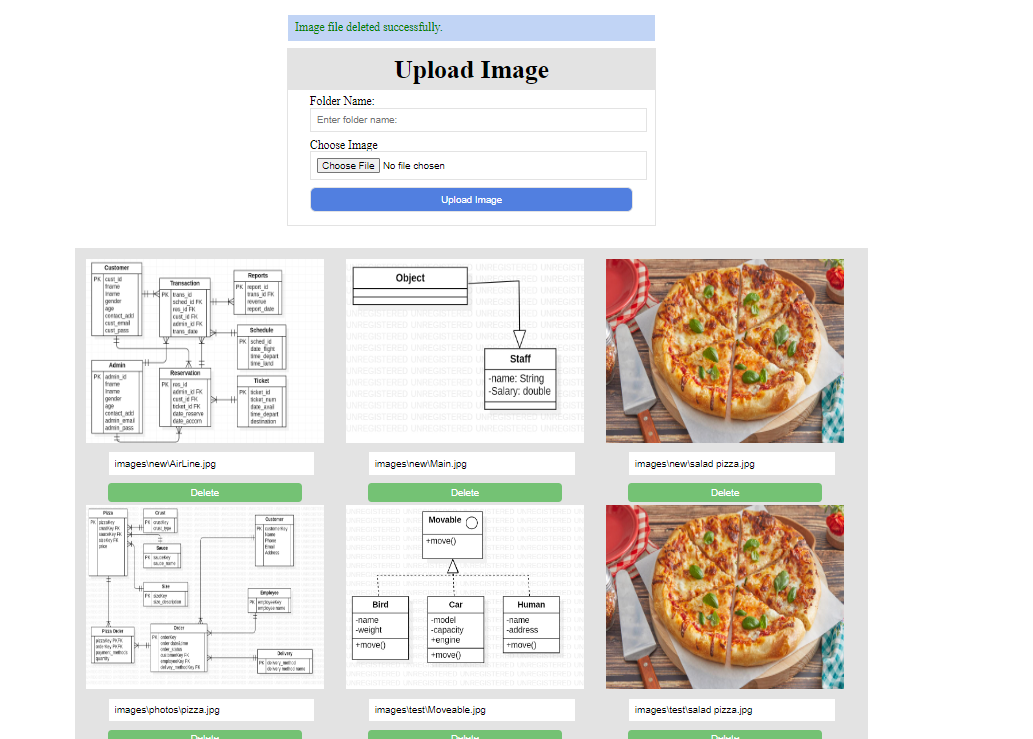
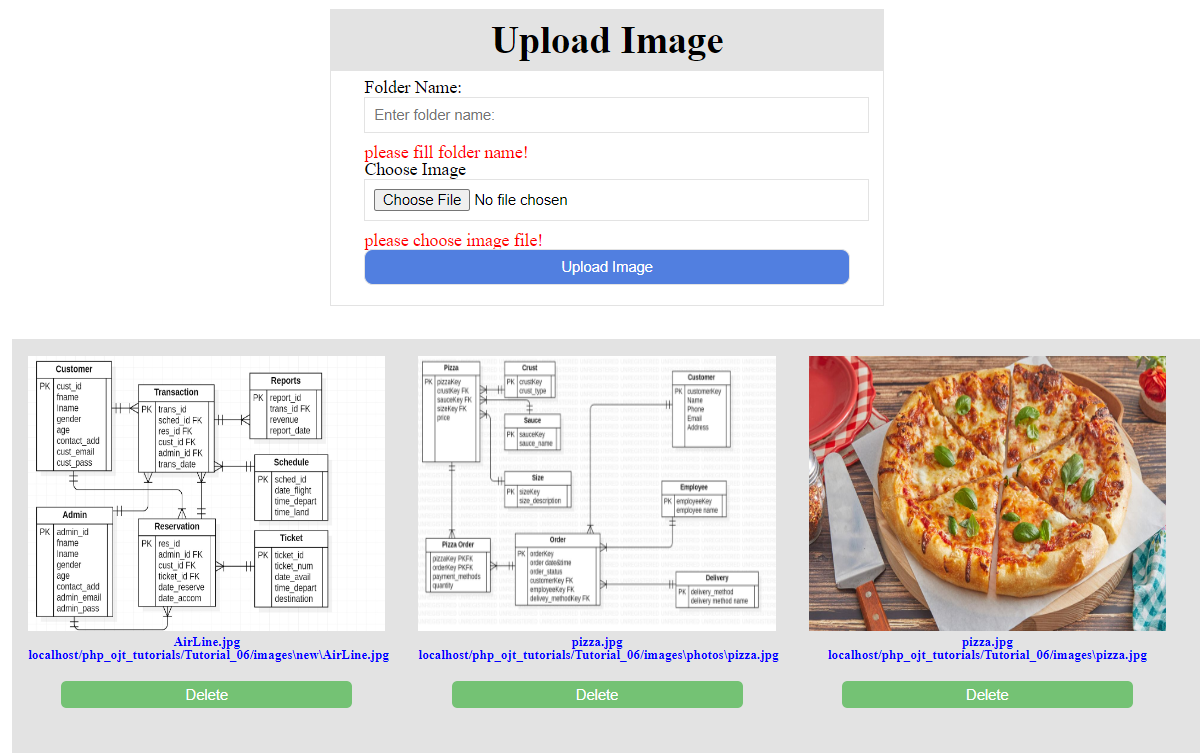
add_img_name&readme_tutorial-06_14_03_2024

diff --git a/Tutorial_06/css/style.css b/Tutorial_06/css/style.css
@@ -64,14 +64,18 @@ input[type='submit'] {
 .image {
   margin: 15px 15px 20px;
   width: 30%;
-  height: 300px;
+  height: 350px;
 }
 
 .image img {
   width: 100%;
   height: 250px;
 }
-
+h6 {
+  color:blue;
+  text-align: center;
+  font-size: 12px;
+}
 button:hover,
 input[type='submit']:hover {
   opacity: 0.7;
@@ -85,4 +89,5 @@ input[type='submit']:hover {
   padding: 5px;
   border-radius: 5px;
   border: none;
+  margin-top: 10px;
 }

diff --git a/Tutorial_06/index.php b/Tutorial_06/index.php
@@ -7,15 +7,11 @@
     <link rel="stylesheet" href="css/reset.css">
     <link rel="stylesheet" href="css/style.css">
 </head>
-
 <body>
     <?php
     if (isset($_GET['error'])) {
         $error = $_GET['error'];
         switch ($error) {
-            case 'missing_inputs':
-                echo "<div class='alert red'>You need to fill folder name and choose image.</div>";
-                break;
             case 'file_too_large':
                 echo "<div class='alert red'>File is too large.File size must be less than or equal 2MB.</div>";
                 break;
@@ -56,14 +52,14 @@
             <label for="folder">Folder Name:</label>
             <input type="text" name="folder" id="folder" placeholder="Enter folder name:">
             <p class="red">
-                <?php if (isset($_GET['empty-folder'])) {
+                <?php if (isset($_GET['empty-folder'])||isset($_GET['empty'])) {
                     echo "please fill folder name!";
                 } ?>
             </p>
             <label for="image">Choose Image</label>
             <input type="file" name="image" id="image">
             <p class="red">
-                <?php if (isset($_GET['empty-img'])) {
+                <?php if (isset($_GET['empty-img'])||isset($_GET['empty'])) {
                     echo "please choose image file!";
                 } ?>
             </p>
@@ -71,10 +67,10 @@
         </form>
     </div>
 
-    <div class="img-con"> <!--to show images-->
+    <div class="img-con">
         <?php
         $directory = 'images/';
-
+        $baseUrl = "localhost/php_ojt_tutorials/Tutorial_06/";
         // Create RecursiveDirectoryIterator
         $iterator = new RecursiveIteratorIterator(new RecursiveDirectoryIterator($directory));
 
@@ -82,8 +78,12 @@
             if ($file->isFile() && in_array(strtolower($file->getExtension()), ['jpg', 'jpeg', 'png'])) {
                 echo '<div class="image">';
                 echo '<img src="' . $file->getPathname() . '" alt="Uploaded Image"><br>';
+                echo '<h6>' . basename($file->getPathname()) . '</h6>';
+                $filePath = str_replace('\\', '/', $file->getPathname());
+                $urlLink = $baseUrl . $file->getPathname();
+                echo '<h6>' . $urlLink . '</h6>';
                 echo '<form action="upload.php" method="post">';
-                echo '<input type="text" name="image_path" value="' . $file->getPathname() . '" readonly>';
+                echo '<input type="hidden" name="image_path" value="' . $file->getPathname() . '" readonly>';
                 echo '<button type="submit" name="delete" class="delete-btn">Delete</button>';
                 echo '</form>';
                 echo '</div>';

diff --git a/Tutorial_06/upload.php b/Tutorial_06/upload.php
@@ -2,7 +2,7 @@
 
 if (isset($_POST["submit"])) {
     if (empty($_POST["folder"]) && empty($_FILES["image"]["name"])) {
-        header("Location: index.php?error=missing_inputs");
+        header("Location: index.php?empty");
         exit;
     } elseif ($_POST['folder'] == "") {
         header("Location: index.php?empty-folder");
